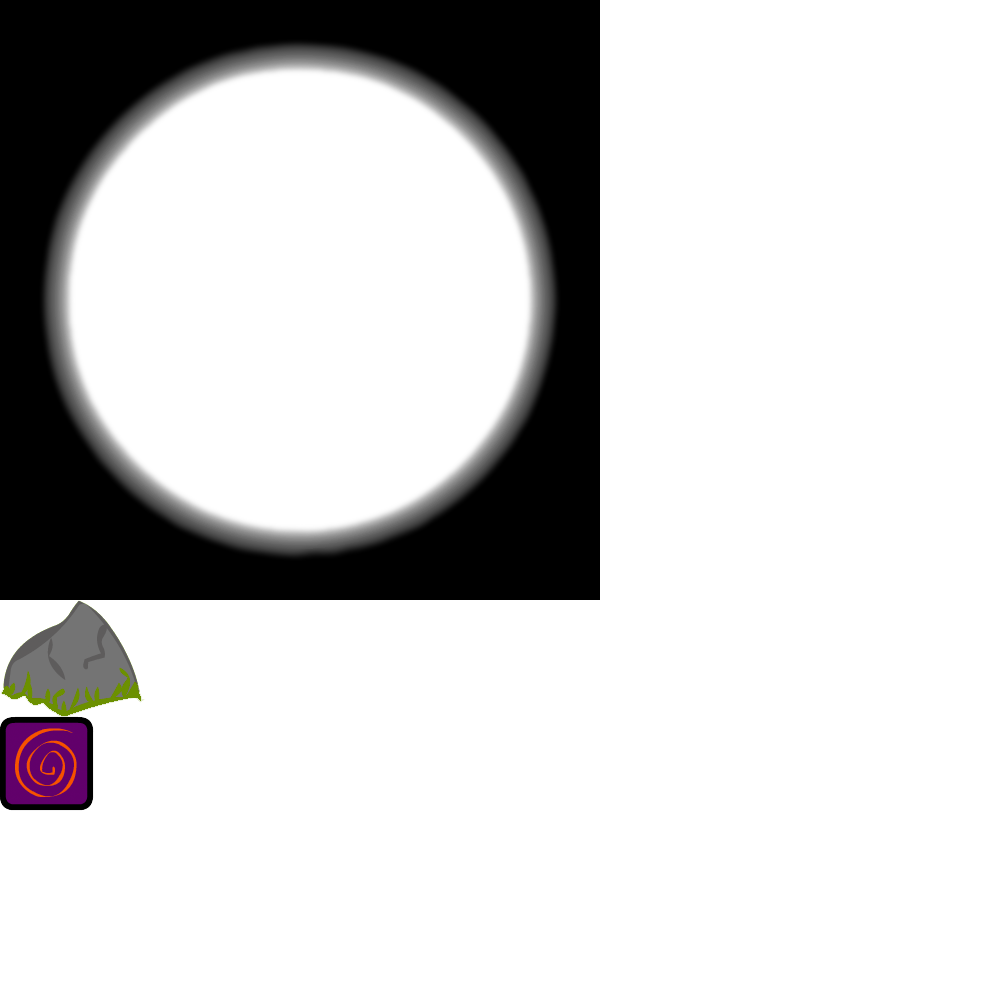
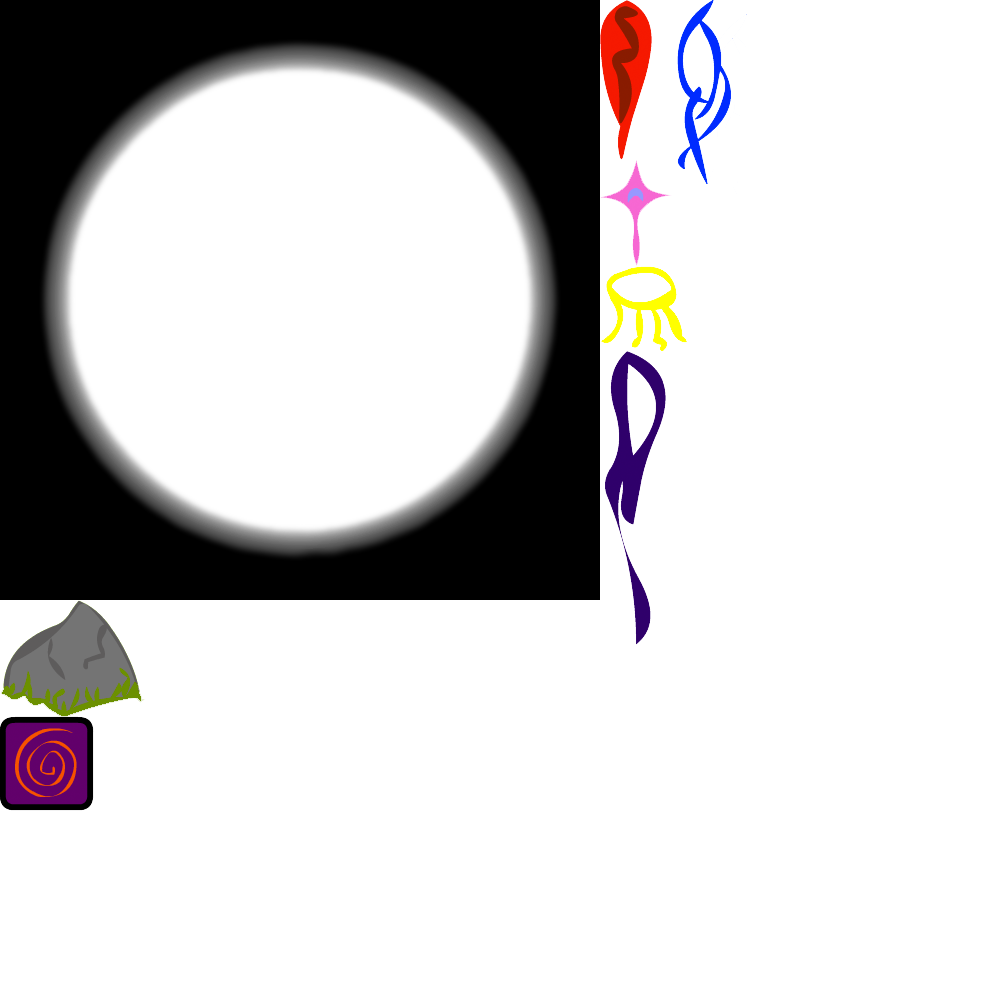
better unit-type system and stunspell sprite

Changed region(s): [[0.589, 0.0, 0.744, 0.527], [0.62, 0.558, 0.651, 0.651]]

diff --git a/src/pvpmagic/View.java b/src/pvpmagic/View.java
@@ -49,13 +49,13 @@ public class View {
 	public void drawCircle(Vector pos, double r){
 		pos = gameToScreenPoint(pos);
 		r = r*_scale;
-		g.drawOval((int)(pos.x), (int)(pos.y), (int)r, (int)r);
+		g.drawOval((int)(pos.x), (int)(pos.y), (int)r*2, (int)r*2);
 	}
 	
 	public void fillCircle(Vector pos, double r){
 		pos = gameToScreenPoint(pos);
 		r = r*_scale;
-		g.fillOval((int)(pos.x), (int)(pos.y), (int)r, (int)r);
+		g.fillOval((int)(pos.x), (int)(pos.y), (int)r*2, (int)r*2);
 	}
 	
 	public void drawPolygon(Polygon p){
@@ -99,6 +99,16 @@ public class View {
 
 	public void setColor(Color color) {
 		g.setColor(color);
-		
+	}
+	
+	double _lastAngle;
+	Vector _lastFocus;
+	public void rotate(Vector angle, Vector focus){
+		_lastAngle = -Math.atan(angle.x/angle.y)+(angle.y > 0 ? Math.PI : 0);
+		_lastFocus = gameToScreenPoint(focus);
+		g.rotate(_lastAngle, _lastFocus.x, _lastFocus.y);
+	}
+	public void unrotate(){
+		g.rotate(-_lastAngle, _lastFocus.x, _lastFocus.y);
 	}
 }

diff --git a/src/pvpmagic/GameScreen.java b/src/pvpmagic/GameScreen.java
@@ -47,10 +47,10 @@ public class GameScreen extends Screen {
 	public void configureGame(SetupScreen s){
 		_data.setup(s);
 		_focus = _data._players.get(0);
-		_healthBar = new Bar("health", new Vector(400, 20), _focus._maxHealth);
+		_healthBar = new Bar("health", new Vector(400, 15), _focus._maxHealth);
 		_interfaceElements.add(_healthBar);
 		
-		_manaBar = new Bar("mana", new Vector(400, 20), _focus._maxMana);
+		_manaBar = new Bar("mana", new Vector(400, 15), _focus._maxMana);
 		_manaBar.setColorRange(new Color(0.5f, 0.5f, 1f), null, null, null);
 		_interfaceElements.add(_manaBar);
 		
@@ -170,10 +170,10 @@ public class GameScreen extends Screen {
 		for (InterfaceElement e : _interfaceElements){
 			if (e.id.equals("health")){
 				e.x = _holder._w/2-e.w/2;
-				e.y = _holder._h-60;
+				e.y = _holder._h-e.h*2-10;
 			} else if (e.id.equals("mana")){
 				e.x = _holder._w/2-e.w/2;
-				e.y = _holder._h-30;
+				e.y = _holder._h-e.h-5;
 			}
 		}
 		

diff --git a/src/pvpmagic/spells/Spell.java b/src/pvpmagic/spells/Spell.java
@@ -19,23 +19,25 @@ public abstract class Spell extends Unit {
 	Vector _dir;
 	
 
-	public Spell(GameData data, Player caster, Vector dir) {
-		super(data, "spell");
+	public Spell(GameData data, String type, Player caster, Vector dir) {
+		super(data, type);
 		_caster = caster;
 		_pos = caster._pos;
-		_dir = dir;
-		setVelocity();
-		_size = new Vector(10, 10);
-		_shape = new Box(this, new Vector(0,0), _size);
+		setup(dir);
 	}
-	public Spell(GameData data, Vector pos, Vector dir){
-		super(data, "spell");
+	public Spell(GameData data, String type, Vector pos, Vector dir){
+		super(data, type);
 		_pos = pos;
+		setup(dir);
+	}
+	public void setup(Vector dir){
 		_dir = dir;
 		setVelocity();
 		_size = new Vector(10, 10);
-		_shape = new Box(this, new Vector(0,0), _size);
+		double radius = _size.mag()/2;
+		_shape = new Circle(this, new Vector(0,0), radius);
 	}
+	
 	public void setVelocity(){
 		_vel = _dir.normalize().mult(_velocity);
 	}

diff --git a/src/pvpmagic/spells/StunSpell.java b/src/pvpmagic/spells/StunSpell.java
@@ -1,14 +1,18 @@
 package pvpmagic.spells;
 
-import java.awt.Color;
 import pvpmagic.*;
 
 public class StunSpell extends Spell {
+	public static String TYPE = "StunSpell";
+	double scale = .2;
+	
 	
 	public StunSpell(GameData data, Player caster, Vector dir){
-		super(data, caster, dir);
+		super(data, TYPE, caster, dir);
 		_cooldown = 1000;
-		_size = new Vector(10, 10);
+		int w = Resource._gameImagesAlpha.get("StunSpell").getWidth(null);
+		int h = Resource._gameImagesAlpha.get("StunSpell").getHeight(null);
+		_size = new Vector(w*scale, h*scale);
 		setVelocity(10);
 	}
 
@@ -22,7 +26,9 @@ public class StunSpell extends Spell {
 	
 	@Override
 	public void draw(View v){
-		v.getGraphics().setColor(Color.green);
-		v.fillRect(_pos, _size);
+//		System.out.println(StunSpell._type + ", "+_type);
+		v.rotate(_vel, _pos.plus(5));
+		v.drawImage(Resource._gameImagesAlpha.get("StunSpell"), _pos, _size);
+		v.unrotate();
 	}
 }

diff --git a/src/pvpmagic/Unit.java b/src/pvpmagic/Unit.java
@@ -2,7 +2,6 @@ package pvpmagic;
 
 import java.util.LinkedList;
 
-
 public abstract class Unit {
 	protected GameData _data;
 	
@@ -27,8 +26,8 @@ public abstract class Unit {
 	
 	protected double _health = _maxHealth;
 	protected double _mana = _maxMana;
-		
-	private String _type;
+	
+	public String _type;
 	public Unit(GameData data, String type){ _data = data; _type = type; }
 	public String type(){ return _type; }
 	

diff --git a/src/pvpmagic/Resource.java b/src/pvpmagic/Resource.java
@@ -136,9 +136,9 @@ public class Resource {
 			Graphics _g = _sheet.getGraphics();
 			_g.drawImage(_tempSheet, 0, 0, null);
 			_g.dispose();
-
+			
 			BufferedReader _file = new BufferedReader(new InputStreamReader(this.getClass().getResourceAsStream("/media/images/gameImagesAlpha.txt")));
-
+			
 			String _line;
 			while ((_line = _file.readLine()) != null){
 				try {

diff --git a/src/pvpmagic/spells/RejuvenateSpell.java b/src/pvpmagic/spells/RejuvenateSpell.java
@@ -5,9 +5,10 @@ import java.awt.Color;
 import pvpmagic.*;
 
 public class RejuvenateSpell extends Spell {
+	public static String TYPE = "RejuvenateSpell";
 
 	public RejuvenateSpell(GameData data, Player caster, Vector dir) {
-		super(data, caster, dir);
+		super(data, TYPE, caster, dir);
 		_size = new Vector(10, 10);
 		setVelocity(4);
 	}

diff --git a/src/pvpmagic/spells/AbracadabraSpell.java b/src/pvpmagic/spells/AbracadabraSpell.java
@@ -6,9 +6,10 @@ import pvpmagic.*;
 
 
 public class AbracadabraSpell extends Spell {
+	public static String TYPE = "AbracadabraSpell";
 
 	public AbracadabraSpell(GameData data, Player caster, Vector dir) {
-		super(data, caster, dir);
+		super(data, TYPE, caster, dir);
 		_size = new Vector(10, 10);
 		_cooldown = 5000;
 		setVelocity(4);

diff --git a/src/pvpmagic/spells/CleanseSpell.java b/src/pvpmagic/spells/CleanseSpell.java
@@ -4,9 +4,10 @@ import java.awt.Color;
 import pvpmagic.*;
 
 public class CleanseSpell extends Spell {
-	
+	public static String TYPE = "CleanseSpell";
+
 	public CleanseSpell(GameData data, Player caster, Vector dir){
-		super(data, caster, dir);
+		super(data, TYPE, caster, dir);
 		_size = new Vector(10, 10);
 		setVelocity(10);
 	}

diff --git a/src/pvpmagic/spells/DisarmSpell.java b/src/pvpmagic/spells/DisarmSpell.java
@@ -5,9 +5,10 @@ import java.awt.Color;
 import pvpmagic.*;
 
 public class DisarmSpell extends Spell {
+	public static String TYPE = "DisarmSpell";
 
 	public DisarmSpell(GameData data, Player caster, Vector dir) {
-		super(data, caster, dir);
+		super(data, TYPE, caster, dir);
 		_size = new Vector(10, 10);
 		setVelocity(4);
 	}

diff --git a/src/pvpmagic/spells/HideSpell.java b/src/pvpmagic/spells/HideSpell.java
@@ -4,9 +4,10 @@ import java.awt.Color;
 import pvpmagic.*;
 
 public class HideSpell extends Spell {
-	
+	public static String TYPE = "HideSpell";
+
 	public HideSpell(GameData data, Player caster, Vector dir){
-		super(data, caster, dir);
+		super(data, TYPE, caster, dir);
 		_size = new Vector(10, 10);
 		setVelocity(10);
 	}

diff --git a/src/pvpmagic/spells/ShineSpell.java b/src/pvpmagic/spells/ShineSpell.java
@@ -5,9 +5,10 @@ import java.awt.Color;
 import pvpmagic.*;
 
 public class ShineSpell extends Spell {
+	public static String TYPE = "ShineSpell";
 
 	public ShineSpell(GameData data, Player caster, Vector dir) {
-		super(data, caster, dir);
+		super(data, TYPE, caster, dir);
 		_size = new Vector(10, 10);
 		setVelocity(4);
 	}
